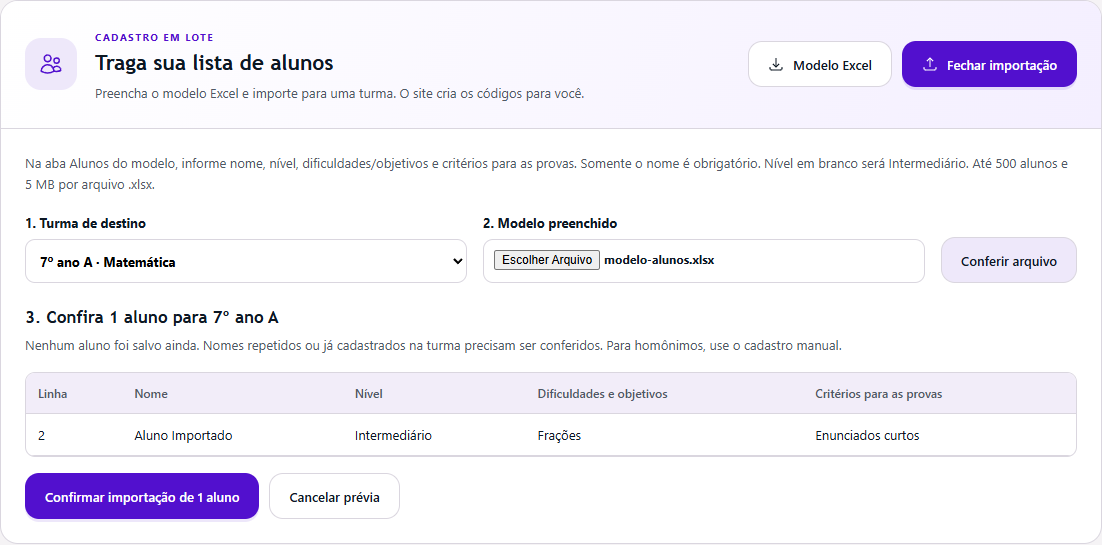
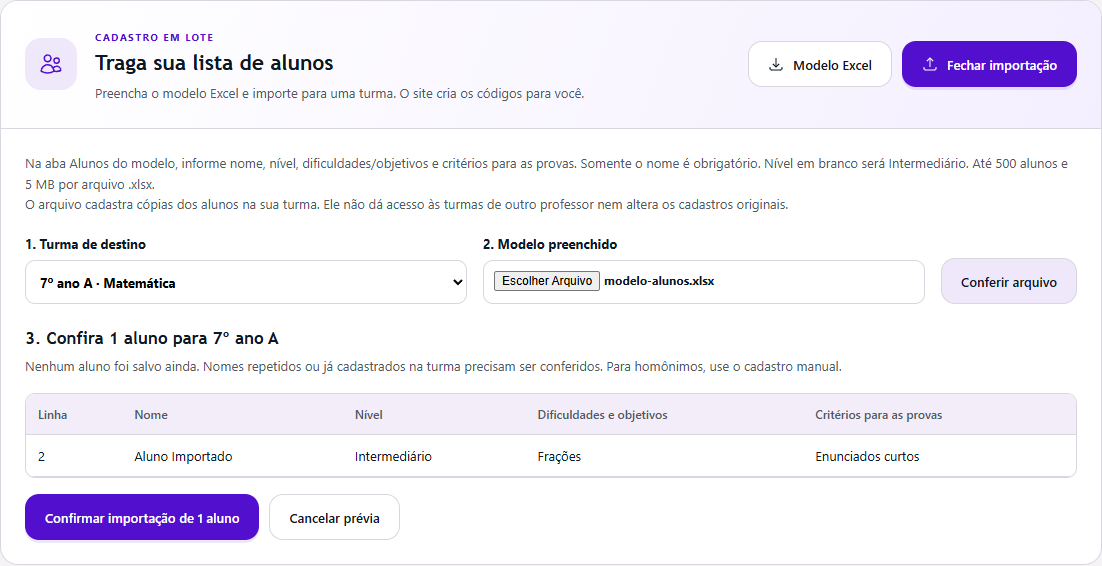
Alteração na Importação
Novo modo de importação

diff --git a/components/student-import.tsx b/components/student-import.tsx
@@ -81,6 +81,7 @@ export default function StudentImport({ classes, busy, demo, onImported, classRo
     </div>
     {(expanded || classRoom) && <div id="student-import-form" className="student-import-body">
       <p className="helper-note">Na aba Alunos do modelo, informe nome, nível, dificuldades/objetivos e critérios para as provas. Somente o nome é obrigatório. Nível em branco será Intermediário. Até 500 alunos e 5 MB por arquivo .xlsx.</p>
+      <p className="helper-note">O arquivo cadastra cópias dos alunos na sua turma. Ele não dá acesso às turmas de outro professor nem altera os cadastros originais.</p>
       {demo ? <p role="status">Você pode baixar o modelo na demonstração. Entre na sua conta para importar alunos.</p>
         : !activeClasses.length || classRoom?.archived_at ? <p role="status">Crie ou reative uma turma antes de importar alunos.</p>
         : <>

diff --git a/tests/Feature/TeacherIsolationTest.php b/tests/Feature/TeacherIsolationTest.php
@@ -1,0 +1,147 @@
+<?php
+
+namespace Tests\Feature;
+
+use App\Models\{ClassRoom, CopyInvitation, Exam, ExamTemplate, Student, User};
+use Illuminate\Foundation\Testing\RefreshDatabase;
+use Illuminate\Support\Facades\{Cache, Queue, Storage};
+use Illuminate\Support\Str;
+use Tests\TestCase;
+
+/** Três contas isoladas: proprietário, destinatário autorizado e terceiro sem convite. */
+class TeacherIsolationTest extends TestCase
+{
+    use RefreshDatabase;
+
+    private User $owner;
+    private User $recipient;
+    private User $outsider;
+    private ClassRoom $room;
+    private Student $student;
+
+    protected function setUp(): void
+    {
+        parent::setUp();
+        Queue::fake();
+        $this->owner = User::factory()->create();
+        $this->recipient = User::factory()->create();
+        $this->outsider = User::factory()->create();
+        $this->room = $this->roomFor($this->owner);
+        $this->student = new Student;
+        $this->student->forceFill(['user_id' => $this->owner->id, 'class_id' => $this->room->id,
+            'name' => 'Aluno original', 'code' => 'A001', 'criteria' => 'Critério privado'])->save();
+    }
+
+    private function roomFor(User $user): ClassRoom
+    {
+        $room = new ClassRoom;
+        $room->forceFill(['user_id' => $user->id, 'name' => 'Turma privada', 'grade' => '7º ano', 'subject' => 'Ciências'])->save();
+        return $room;
+    }
+
+    private function invite(string $kind = 'class'): string
+    {
+        $id = (string) Str::uuid();
+        $this->actingAs($this->owner)->postJson('/api/actions/sala_send_copy', [
+            'p_id' => $id, 'p_kind' => $kind, 'p_resource' => $kind === 'class' ? $this->room->id : $this->student->id,
+            'p_email' => $this->recipient->email,
+        ])->assertOk();
+        return $id;
+    }
+
+    public function test_ids_and_forged_owner_filters_do_not_allow_reading_or_editing_other_accounts(): void
+    {
+        $this->actingAs($this->outsider);
+        foreach (['sala_classes' => $this->room, 'sala_students' => $this->student] as $resource => $record) {
+            foreach ([[], [['id', $record->id]], [['user_id', $this->owner->id]]] as $filters) {
+                $this->postJson('/api/data/'.$resource, ['op' => 'select', 'filters' => $filters,
+                    'user_id' => $this->owner->id])->assertOk()->assertExactJson(['data' => []]);
+            }
+            $this->postJson('/api/data/'.$resource, ['op' => 'select', 'single' => 'single', 'filters' => [['id', $record->id]]])->assertNotFound();
+            $this->postJson('/api/data/'.$resource, ['op' => 'update', 'filters' => [['id', $record->id]],
+                'values' => ['name' => 'Alterado', 'user_id' => $this->outsider->id]])->assertNotFound();
+        }
+        $this->postJson('/api/data/sala_students', ['op' => 'insert', 'values' => ['name' => 'Invasão', 'class_id' => $this->room->id]])->assertNotFound();
+        $this->assertSame('Turma privada', $this->room->fresh()->name);
+        $this->assertSame('Aluno original', $this->student->fresh()->name);
+        $this->assertDatabaseCount('sala_students', 1);
+    }
+
+    public function test_class_actions_and_cross_account_transfers_are_denied(): void
+    {
+        $mine = $this->roomFor($this->outsider);
+        $this->actingAs($this->outsider);
+        $this->postJson('/api/actions/sala_set_class_active', ['p_class' => $this->room->id, 'p_active' => false])->assertNotFound();
+        $this->postJson('/api/actions/sala_delete_class', ['p_class' => $this->room->id, 'p_reason' => 'Excluir indevidamente'])->assertNotFound();
+        $this->postJson('/api/actions/sala_reactivate_student', ['p_class' => $mine->id, 'p_student' => $this->student->id])->assertNotFound();
+        $this->postJson('/api/data/sala_recovery_students', ['op' => 'upsert', 'values' => ['student_id' => $this->student->id]])->assertNotFound();
+        $this->postJson('/api/actions/sala_send_copy', ['p_id' => (string) Str::uuid(), 'p_kind' => 'class',
+            'p_resource' => $this->room->id, 'p_email' => $this->recipient->email])->assertNotFound();
+        $this->actingAs($this->owner)->postJson('/api/actions/sala_reactivate_student', [
+            'p_class' => $mine->id, 'p_student' => $this->student->id])->assertNotFound();
+        $this->assertSame($this->room->id, $this->student->fresh()->class_id);
+        $this->assertNull($this->room->fresh()->archived_at);
+    }
+
+    public function test_only_recipient_can_accept_and_copies_never_grant_access_to_originals(): void
+    {
+        $id = $this->invite();
+        $this->actingAs($this->outsider)->postJson('/api/data/sala_copy_invitations', ['op' => 'select', 'filters' => [['id', $id]]])->assertExactJson(['data' => []]);
+        $this->postJson('/api/actions/sala_accept_copy', ['p_invitation' => $id, 'recipient_email' => $this->recipient->email])->assertNotFound();
+        $this->postJson('/api/actions/sala_cancel_copy', ['p_invitation' => $id])->assertNotFound();
+        $this->actingAs($this->recipient)->postJson('/api/data/sala_copy_invitations', ['op' => 'select', 'single' => 'single', 'filters' => [['id', $id]], 'columns' => 'snapshot'])
+            ->assertOk()->assertJsonMissingPath('data.snapshot');
+        $this->postJson('/api/actions/sala_cancel_copy', ['p_invitation' => $id])->assertNotFound();
+        $destination = $this->postJson('/api/actions/sala_accept_copy', ['p_invitation' => $id])->assertOk()->json('data');
+        $copy = Student::ownedBy($this->recipient->id)->sole();
+        $this->assertNotSame($copy->id, $this->student->id);
+        $this->assertSame($destination, $copy->class_id);
+        $this->postJson('/api/data/sala_students', ['op' => 'update', 'filters' => [['id', $copy->id]], 'values' => ['criteria' => 'Minha alteração']])->assertOk();
+        $this->assertSame('Critério privado', $this->student->fresh()->criteria);
+        $this->postJson('/api/data/sala_students', ['op' => 'select', 'filters' => [['id', $this->student->id]]])->assertExactJson(['data' => []]);
+        $this->postJson('/api/data/sala_classes', ['op' => 'update', 'filters' => [['id', $this->room->id]], 'values' => ['name' => 'Invadida']])->assertNotFound();
+        $this->actingAs($this->owner)->postJson('/api/data/sala_students', ['op' => 'select', 'filters' => [['id', $copy->id]]])->assertExactJson(['data' => []]);
+        $this->postJson('/api/actions/sala_cancel_copy', ['p_invitation' => $id])->assertConflict();
+        $this->assertNull(CopyInvitation::findOrFail($id)->revoked_at);
+    }
+
+    public function test_revocation_blocks_acceptance_and_destination_must_belong_to_recipient(): void
+    {
+        $id = $this->invite('student');
+        $mine = $this->roomFor($this->recipient);
+        $this->actingAs($this->recipient)->postJson('/api/actions/sala_accept_copy', ['p_invitation' => $id, 'p_class' => $this->room->id])->assertNotFound();
+        $this->assertNull(CopyInvitation::findOrFail($id)->accepted_at);
+        $this->actingAs($this->owner)->postJson('/api/actions/sala_cancel_copy', ['p_invitation' => $id])->assertOk();
+        $this->actingAs($this->recipient)->postJson('/api/actions/sala_accept_copy', ['p_invitation' => $id, 'p_class' => $mine->id])->assertConflict();
+        $this->assertSame(0, Student::ownedBy($this->recipient->id)->count());
+        $fresh = $this->invite('student');
+        $this->actingAs($this->recipient)->postJson('/api/actions/sala_accept_copy', ['p_invitation' => $fresh, 'p_class' => $mine->id])->assertOk()->assertJsonPath('data', $mine->id);
+        $this->assertSame($mine->id, Student::ownedBy($this->recipient->id)->sole()->class_id);
+    }
+
+    public function test_exam_template_files_and_download_progress_remain_private(): void
+    {
+        Storage::fake('local');
+        $path = $this->owner->id.'/privado.pdf';
+        Storage::disk('local')->put('sala-templates/'.$path, '%PDF-privado');
+        $template = new ExamTemplate;
+        $template->forceFill(['user_id' => $this->owner->id, 'name' => 'Privado', 'filename' => 'privado.pdf', 'path' => $path])->save();
+        $exam = new Exam;
+        $exam->forceFill(['user_id' => $this->owner->id, 'class_id' => $this->room->id, 'student_id' => $this->student->id,
+            'title' => 'Privada', 'subject' => 'Ciências', 'topics' => 'Células', 'question_count' => 1,
+            'content' => ['instructions' => '', 'questions' => []], 'status' => 'draft', 'profile_snapshot' => []])->save();
+        $this->actingAs($this->outsider);
+        foreach (['sala_exams' => $exam, 'sala_templates' => $template] as $resource => $record) {
+            $this->postJson('/api/data/'.$resource, ['op' => 'select', 'filters' => [['id', $record->id]]])->assertExactJson(['data' => []]);
+        }
+        $this->postJson('/api/export/exam', ['id' => $exam->id, 'format' => 'pdf'])->assertNotFound();
+        $this->postJson('/api/generate', ['examId' => $exam->id])->assertNotFound();
+        $this->postJson('/api/template/process', ['templateId' => $template->id])->assertNotFound();
+        $this->getJson('/api/files/sala-templates?'.http_build_query(['path' => $path]))->assertUnprocessable();
+        $this->deleteJson('/api/files/sala-templates', ['paths' => [$path]])->assertUnprocessable();
+        Storage::disk('local')->assertExists('sala-templates/'.$path);
+        $progress = (string) Str::uuid();
+        Cache::put('download:'.$this->owner->id.':'.$progress, 'layout', 60);
+        $this->getJson('/api/export/progress/'.$progress)->assertOk()->assertJsonPath('stage', null);
+    }
+}

diff --git a/tests/Feature/StudentImportTest.php b/tests/Feature/StudentImportTest.php
@@ -74,6 +74,32 @@ class StudentImportTest extends TestCase
         $this->postJson('/api/data/sala_students', ['op' => 'insert', 'single' => 'single', 'values' => ['class_id' => $room->id, 'name' => 'Manual']])->assertOk()->assertJsonPath('data.code', 'A012');
     }
 
+    public function test_excel_into_existing_class_creates_only_owned_copies_and_never_opens_source_class(): void
+    {
+        $owner = User::factory()->create();
+        $source = $this->room($owner);
+        $original = new Student;
+        $original->forceFill(['user_id' => $owner->id, 'class_id' => $source->id, 'name' => 'Ana Silva', 'code' => 'A007', 'criteria' => 'Original'])->save();
+        $recipient = User::factory()->create();
+        $target = $this->room($recipient);
+        $file = $this->file([['Ana Silva', 'Avançado', 'Objetivo editado', 'Critério da cópia']]);
+        // Conhecer o ID da origem ou anexar uma lista não autoriza escrever na turma alheia.
+        $this->send($source, $file, true)->assertNotFound();
+        $this->send($source, $file)->assertNotFound();
+        $this->postJson('/api/students/import', ['class_id' => $target->id, 'file' => $file, 'preview' => false,
+            'user_id' => $owner->id, 'student_id' => $original->id])->assertCreated()
+            ->assertJsonPath('students.0.user_id', $recipient->id)->assertJsonPath('students.0.class_id', $target->id)
+            ->assertJsonPath('students.0.code', 'A001');
+        $this->assertSame('Original', $original->fresh()->criteria);
+        $this->assertSame('A007', $original->fresh()->code);
+        $this->assertDatabaseCount('sala_classes', 2);
+        $this->assertDatabaseCount('sala_students', 2);
+        $this->postJson('/api/data/sala_classes', ['op' => 'select', 'filters' => [['id', $source->id]]])->assertExactJson(['data' => []]);
+        $copy = Student::ownedBy($recipient->id)->sole();
+        $this->assertNotSame($original->id, $copy->id);
+        $this->actingAs($owner)->postJson('/api/data/sala_students', ['op' => 'select', 'filters' => [['id', $copy->id]]])->assertExactJson(['data' => []]);
+    }
+
     public function test_validation_is_atomic_and_reports_original_rows(): void
     {
         $room = $this->room();

diff --git a/app/Http/Controllers/ActionsController.php b/app/Http/Controllers/ActionsController.php
@@ -149,7 +149,10 @@ class ActionsController extends Controller
     /** Permite ao remetente revogar apenas um convite ainda não aceito. */
     private function cancelCopy(string $uid, array $v)
     {
-        $invite = CopyInvitation::where('owner_id', $uid)->findOrFail($v['p_invitation'] ?? '');
+        Validator::make($v, ['p_invitation' => 'required|uuid'])->validate();
+        // Remetente e destinatário têm bloqueios de conta diferentes. Trave o próprio convite,
+        // como no aceite, para que cancelar e receber não confirmem estados contraditórios.
+        $invite = CopyInvitation::where('owner_id', $uid)->lockForUpdate()->findOrFail($v['p_invitation']);
         abort_if($invite->accepted_at,409,'A cópia já foi recebida.');
         $invite->revoked_at = now();
         $invite->save();

diff --git a/routes/web.php b/routes/web.php
@@ -36,6 +36,10 @@ Route::middleware('auth')->group(function () {
         $id = $r->validate(['examId' => 'required|uuid'])['examId'];
         try {
             return response()->json(['exam' => $ai->generate($r->user()->id, $id)]);
+        } catch (\Illuminate\Database\Eloquent\ModelNotFoundException $e) {
+            // IDs alheios ou inexistentes continuam como 404, sem expor detalhes do modelo.
+            // ModelNotFoundException também é RuntimeException; preserve a autorização antes do erro de IA.
+            throw $e;
         } catch (RuntimeException $e) {
             return response()->json(['error' => ['message' => $e->getMessage()]], 502);
         }

diff --git a/docs/relatorios/2026-11-23-importacao-alunos/seguranca-entre-professores.md b/docs/relatorios/2026-11-23-importacao-alunos/seguranca-entre-professores.md
@@ -1,0 +1,125 @@
+# Importação em turma existente e isolamento entre professores
+
+Data: 23/11/2026. Revisão local, sem staging, commit, push ou publicação.
+
+## Acesso dentro da turma
+
+O código já oferece **Importar alunos** no cartão e na página de cada turma,
+com destino fixo, download do modelo, seleção do arquivo e prévia. O Excel
+preenchido acrescenta novos alunos à turma existente, sem recriá-la e sem
+substituir os alunos que já estão nela. Os códigos são atribuídos pelo servidor.
+O arquivo é processado para cadastro, não mantido como anexo permanente.
+
+Na consulta HTTP pública desta execução, `https://provaai.vercel.app` serviu
+`/build/assets/app-ehPYGwen.js`, contendo tanto `/api/students/import` quanto
+`import-students`. O modelo `/modelos/modelo-alunos.xlsx` retornou **200**.
+Isso difere da consulta anterior registrada em `acesso-nas-turmas.md`, quando
+a versão publicada ainda não continha o recurso. O estado local inicial estava
+limpo no commit `6bd21ae` (`Nova importação`).
+
+A captura enviada pelo usuário não mostra o botão. A evidência atual confirma
+a presença do recurso nos arquivos públicos, mas não prova qual versão estava
+carregada naquela sessão. Atualizar completamente a página é a primeira ação
+para carregar a versão atual. Não foi acessada a conta real do usuário.
+
+## Regra de privacidade conferida
+
+- Cada professor consulta e altera apenas os registros associados à sua sessão.
+  Informar IDs ou `user_id` de outra conta não concede permissão.
+- Importar um Excel recebido por fora do site cria registros independentes na
+  turma do professor autenticado. O arquivo não autoriza consultar ou alterar
+  a turma original. A aplicação não consegue verificar quem forneceu um arquivo
+  externo nem se ele foi realmente editado; valida seu conteúdo e o destino.
+- **Compartilhar cópia** exige que o remetente seja proprietário. Somente a
+  conta com o e-mail destinatário pode aceitar. A turma ou o perfil recebido
+  passa a ser uma cópia independente, sem permissão sobre a origem.
+- O remetente também não ganha acesso à cópia do destinatário. Alterações
+  posteriores em uma cópia não afetam os registros originais.
+- Compartilhar um aluno permite selecionar uma turma existente do destinatário.
+  Compartilhar a turma inteira cria outra turma na conta destinatária, conforme
+  o comportamento já existente. Nenhuma dessas opções cria edição conjunta.
+- Convites cancelados não podem ser aceitos. Depois do aceite, o cancelamento
+  não revoga nem apaga a cópia já recebida.
+
+Foi acrescentada essa explicação ao formulário de importação para deixar claro
+que enviar a planilha não abre acesso à turma de outro professor.
+
+## Revisão do backend e correções
+
+Foram conferidos `RecordsController`, `StudentImportController`,
+`ActionsController`, `DocumentsController`, os escopos de propriedade,
+`OwnedPolicy`, as rotas autenticadas e os vínculos usados por geração/lotes.
+As permissões são aplicadas no servidor; não dependem de esconder botões.
+
+1. **Cancelamento versus aceite do convite:** o aceite bloqueava o convite,
+   mas o cancelamento só tinha o bloqueio da conta do remetente. Como remetente
+   e destinatário são contas diferentes, esses bloqueios não serializavam as
+   duas operações. O cancelamento agora valida o UUID e usa `lockForUpdate`
+   no mesmo convite antes de verificar o aceite e salvar a revogação, dentro
+   da transação existente. Isso serializa os estados em bancos com bloqueio
+   de linha, como PostgreSQL/MySQL.
+2. **Resposta da geração para ID alheio:** a busca por proprietário já barrava
+   acesso, mas `ModelNotFoundException` caía no tratamento genérico de
+   `RuntimeException`, devolvendo 502 com detalhes da exceção. Agora o caso
+   mantém a resposta 404 padrão, igual a um registro inexistente. Não foi
+   identificada leitura de conteúdo alheio nesse caminho.
+
+## Testes executados
+
+| Comando | Resultado final |
+| --- | --- |
+| `php artisan test` | 72 testes, 532 asserções, todos aprovados |
+| `npm run typecheck` | Aprovado |
+| `npm test` | 54 testes aprovados |
+| `npm run build` | Aprovado; aviso de chunk maior que 500 kB |
+| `node --experimental-strip-types tests/browser/student-import.mjs` | Aprovado em 1440 e 375 pixels |
+| `git diff --check` | Sem erros de whitespace |
+
+Nova suíte `TeacherIsolationTest`, com três contas fictícias, cobre:
+
+- Listagens, busca por ID, filtro de proprietário forjado e edição de turmas e
+  alunos de outra conta.
+- Cadastro em turma alheia, arquivamento, exclusão, transferência/reativação,
+  inclusão no acompanhamento individual e compartilhamento sem propriedade.
+- Convites invisíveis a terceiros, recusa de aceite/cancelamento por quem não
+  tem permissão e ocultação do snapshot na resposta da lista de convites.
+- Aceite só pelo destinatário, impossibilidade de escolher destino alheio,
+  bloqueio de convite revogado e conflito ao cancelar convite já aceito.
+- Independência dos alunos copiados e isolamento em ambos os sentidos após
+  compartilhar, inclusive edição de cópia sem alterar o original.
+- Provas, modelos, exportação, geração, processamento de modelo, leitura e
+  exclusão de arquivo e progresso de download de outra conta.
+
+Novo cenário em `StudentImportTest` importa uma lista Excel editada para uma
+turma já existente, confere novo código e proprietário, recusa prévia e envio
+para turma alheia, ignora tentativas de forjar `user_id`/`student_id`, mantém
+o original intacto e confirma que nenhuma turma adicional foi criada.
+
+O teste de navegador já existente foi executado no build final: Alunos,
+cartão da turma e página interna; destino correto, prévia, confirmação,
+atualização de contador/lista, turma inativa e histórico. API simulada no
+navegador; endpoint real e banco isolado nos testes PHP. Capturas atualizadas
+ficam neste diretório; a prévia desktop foi conferida visualmente.
+
+Na primeira execução, a suíte nova revelou a resposta 502 descrita acima.
+Também foi removida uma asserção incorreta do teste que considerava inválido
+um e-mail sintaticamente válido. A suíte completa foi repetida após os ajustes.
+
+## Ambiente e limites
+
+PHP: `C:/Users/R3/.cache/provaai-tools/php83/php.exe`.
+Npm: `node C:/Users/R3/.cache/codex-tools/npm/package/bin/npm-cli.js`.
+Na suíte PHP, `PYTHON_BINARY` apontou para
+`C:/Users/R3/.cache/provaai-tools/math-docs-venv/Scripts/python.exe`,
+`NODE_BINARY` para o Node disponível e o diretório do PHP foi acrescentado ao
+PATH. Navegador: Edge headless isolado com Playwright do runtime instalado.
+
+Os testes de banco usam SQLite em memória. Os estados sequenciais de aceite
+e cancelamento foram testados; a corrida entre processos em PostgreSQL/MySQL
+não foi reproduzida neste host. A revisão cobre os fluxos descritos e não é
+uma garantia absoluta contra toda vulnerabilidade, nem uma auditoria da
+infraestrutura, das credenciais ou da configuração real de produção.
+
+As correções desta execução e a nova explicação estão locais para revisão e
+commit pelo usuário. Não houve alteração em contas reais, envio de convites
+reais ou publicação das correções de segurança.
